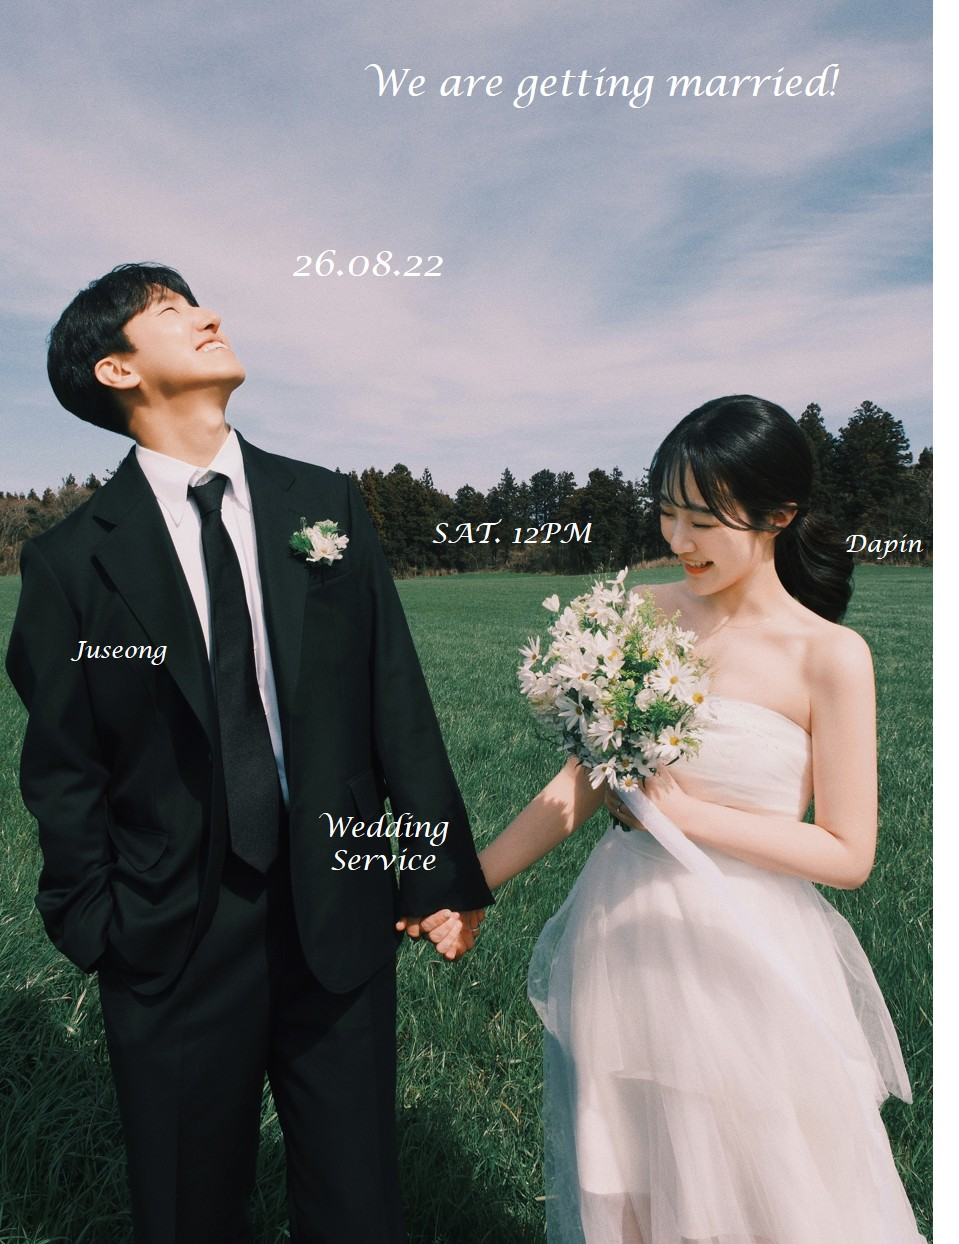
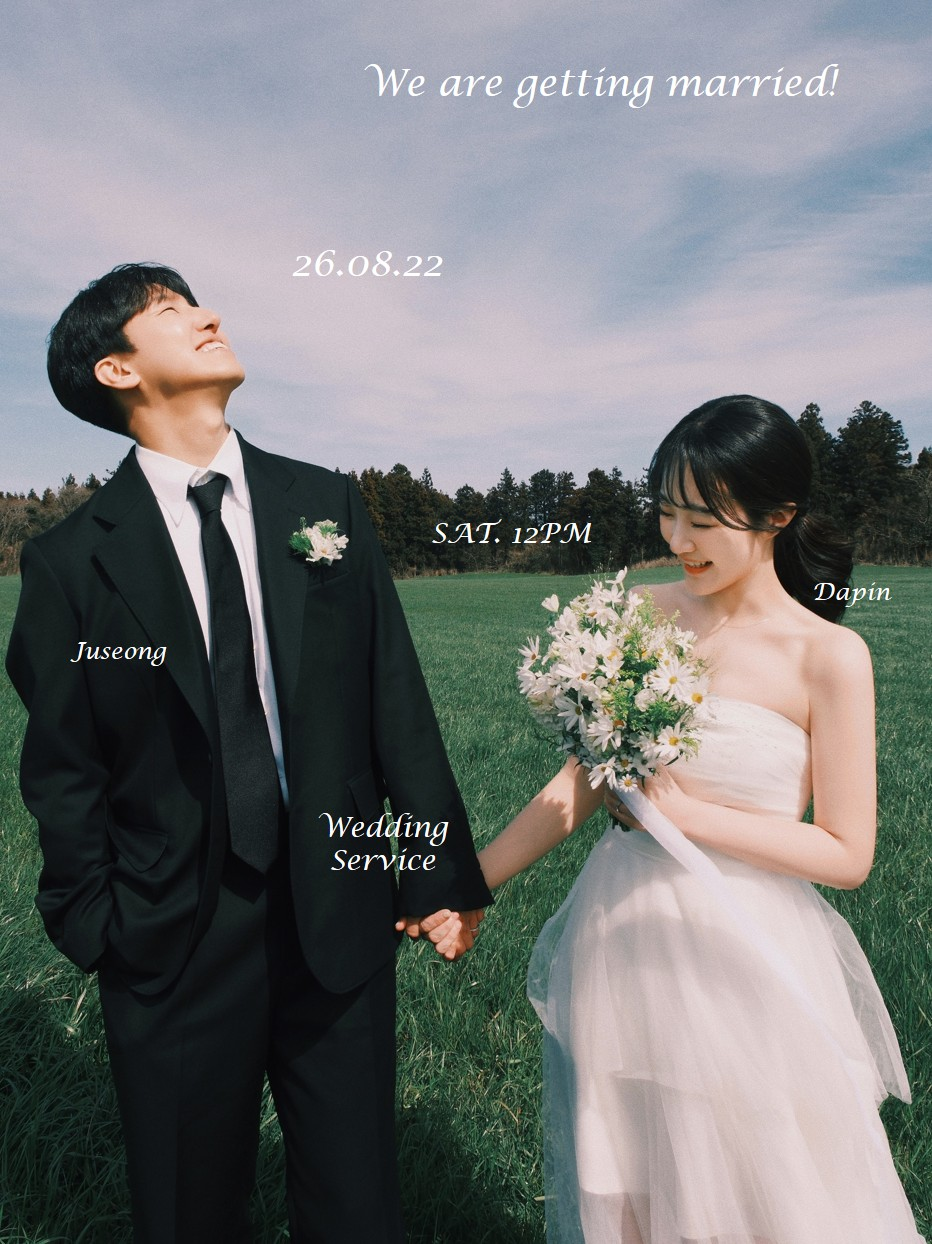
fix: include missing story images and refactor gallery initialization

diff --git a/index.html b/index.html
@@ -2535,21 +2535,53 @@ function initImageBlurUp() {
 }
 
 // 갤러리 이미지 주입 및 블러 효과 초기화
-(function initGallery() {
+function initGallery() {
   const slides = document.querySelectorAll('.gallery-slide');
+  if (!slides.length) return;
+
   slides.forEach((slide, i) => {
     if (STORY_IMAGES[i]) {
+      // 기존 내용을 비우고 이미지 주입
       slide.innerHTML = `<img src="${STORY_IMAGES[i]}" alt="Story Photo ${i+1}" loading="lazy" />`;
     }
   });
-  initImageBlurUp();
+  
+  // 이미지 로딩 블러 효과 초기화
+  const images = document.querySelectorAll('img[loading="lazy"]');
+  images.forEach(img => {
+    if (img.complete) img.classList.add('loaded');
+    else img.addEventListener('load', () => img.classList.add('loaded'));
+  });
 
   // 갤러리 클릭 확대 (STORY_IMAGES 연동)
   const items = STORY_IMAGES.map((src, i) => ({ src, caption: `Story Photo ${i + 1}` }));
   slides.forEach((slide, i) => {
     slide.addEventListener('click', () => openLightboxSet(items, i));
   });
-})();
+}
+
+// 모든 초기화 실행
+window.addEventListener('DOMContentLoaded', () => {
+  initGallery();
+  
+  // 첫 번째 히어로 이미지는 즉시 로딩
+  const firstImg = document.getElementById('ghImg');
+  if (firstImg) {
+    firstImg.removeAttribute('loading');
+    firstImg.src = HERO_IMAGES[0];
+  }
+  
+  const blurBg = document.getElementById('ghBlurBg');
+  if (blurBg) {
+    blurBg.style.backgroundImage = `url('${HERO_IMAGES[0]}')`;
+  }
+
+  // 자동 회전 (6초마다)
+  setInterval(() => {
+    const nextIdx = (currentGalleryIdx + 1) % HERO_IMAGES.length;
+    setGalleryImage(nextIdx);
+  }, 6000);
+});
 
 
 /* ─────────────────────────────────
@@ -2787,56 +2819,6 @@ gsap.to(['.hero-eyebrow','.hero-names','.hero-kr','.hero-rule','.hero-date','.he
   ease: 'none',
   scrollTrigger: { trigger: '.hero', start: '18% top', end: '72% top', scrub: true }
 });
-
-/* ── Gallery Hero (Section 0) 이미지 자동 회전 ── */
-let currentGalleryIdx = 0;
-
-function setGalleryImage(idx) {
-  const img = document.getElementById('ghImg');
-  const blurBg = document.getElementById('ghBlurBg');
-  if (!img || !blurBg) return;
-
-  // 페이드 아웃
-  img.classList.add('fade-out');
-
-  setTimeout(() => {
-    currentGalleryIdx = idx;
-    img.src = HERO_IMAGES[idx];
-
-    // 블러 배경도 함께 변경
-    blurBg.style.backgroundImage = `url('${HERO_IMAGES[idx]}')`;
-
-    // 페이드 인
-    img.onload = () => {
-      img.classList.remove('fade-out');
-    };
-    if (img.complete) {
-      img.classList.remove('fade-out');
-    }
-  }, 600);
-}
-
-// 초기화 및 자동 회전
-window.addEventListener('DOMContentLoaded', () => {
-  // 첫 번째 이미지는 즉시 로딩 (LCP 최적화)
-  const firstImg = document.getElementById('ghImg');
-  if (firstImg) {
-    firstImg.removeAttribute('loading');
-    firstImg.src = HERO_IMAGES[0];
-  }
-  
-  const blurBg = document.getElementById('ghBlurBg');
-  if (blurBg) {
-    blurBg.style.backgroundImage = `url('${HERO_IMAGES[0]}')`;
-  }
-
-  // 자동 회전 (6초마다)
-  setInterval(() => {
-    const nextIdx = (currentGalleryIdx + 1) % HERO_IMAGES.length;
-    setGalleryImage(nextIdx);
-  }, 6000);
-});
-
 
 /* ── 2. D-Day Count-Up on enter ── */
 let cdDone = false;
